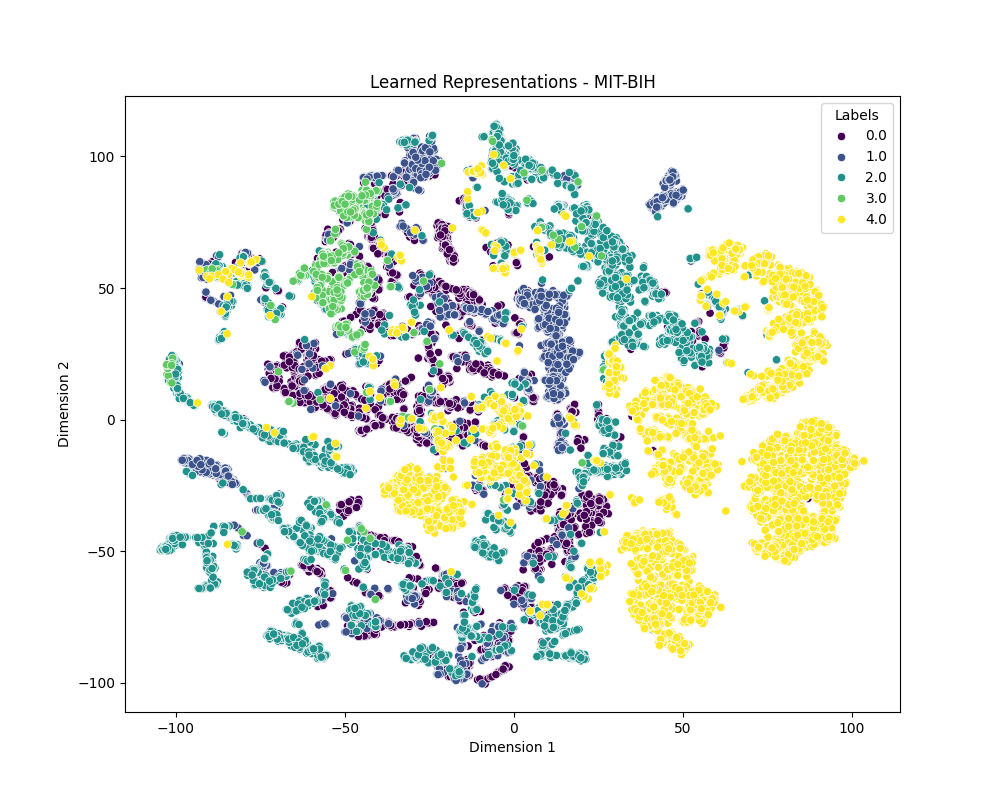
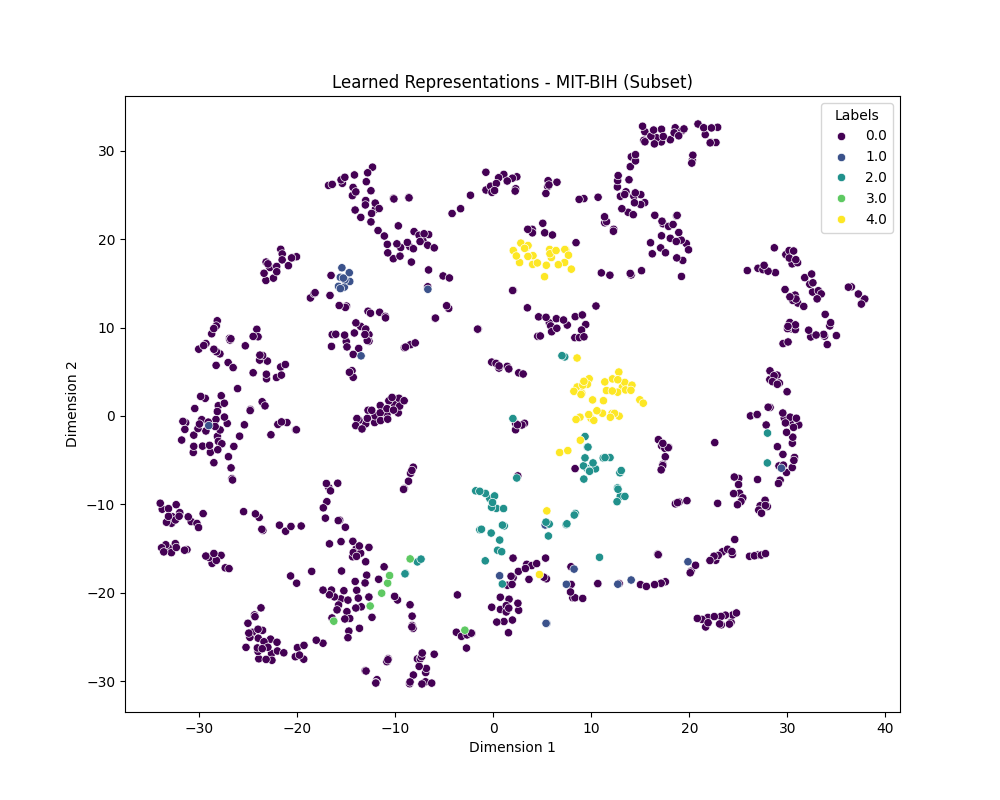
2.3

diff --git a/src/part2/remove_final_layers.py b/src/part2/remove_final_layers.py
@@ -1,0 +1,174 @@
+from pathlib import Path
+import numpy as np
+import pandas as pd
+from sklearn.decomposition import PCA
+from sklearn.manifold import TSNE
+import matplotlib.pyplot as plt
+import seaborn as sns
+from tensorflow.keras.layers import (Activation, Add, BatchNormalization,
+                                     Conv1D, Dense, Dropout, Flatten, Input,
+                                     MaxPooling1D)
+from tensorflow.keras.models import Model, Sequential
+from tensorflow.keras.regularizers import l2
+from tensorflow.keras.utils import to_categorical
+from tensorflow.keras.metrics import AUC, Precision, Recall
+from tensorflow.keras.optimizers import Adam
+from tqdm import tqdm
+
+def load_train_test(dpath="../../data/mitbih/"):
+    df_train = pd.read_csv(dpath / 'train.csv', header=None)
+    df_test = pd.read_csv(dpath / 'test.csv', header=None)
+
+    # Train split
+    X_train = df_train.iloc[:, :-1]
+    y_train = df_train.iloc[:, -1]
+
+    # Test split
+    X_test = df_test.iloc[:, :-1]
+    y_test = df_test.iloc[:, -1]
+
+    return X_train, y_train, X_test, y_test
+
+def reshape_data(X):
+    return X.values.reshape((X.shape[0], X.shape[1], 1))
+
+def residual_block(x, filters, kernel_size=3, stride=1,
+                   conv_shortcut=True, name=None):
+    # Shortcut
+    if conv_shortcut is True:
+        shortcut = Conv1D(filters, 1, strides=stride, name=name+'_0_conv')(x)
+        shortcut = BatchNormalization(name=name+'_0_bn')(shortcut)
+    else:
+        shortcut = x
+
+    # Residual
+    x = Conv1D(filters, kernel_size, padding='same', strides=stride,
+               kernel_regularizer=l2(0.001), name=name+'_1_conv')(x)
+    x = BatchNormalization(name=name+'_1_bn')(x)
+    x = Activation('relu', name=name+'_1_relu')(x)
+
+    x = Conv1D(filters, kernel_size, padding='same',
+               kernel_regularizer=l2(0.001), name=name+'_2_conv')(x)
+    x = BatchNormalization(name=name+'_2_bn')(x)
+
+    # Add shortcut
+    x = Add()([shortcut, x])
+    x = Activation('relu', name=name+'_out')(x)
+    return x
+
+def build_resnet_cnn(input_shape, filters=32, kernel_size=5, strides=2,
+                     loss='categorical_crossentropy', out_activation='softmax',
+                     num_classes=5):
+    inputs = Input(shape=input_shape)
+
+    # Initial conv block
+    x = Conv1D(filters, kernel_size, strides=strides,
+               padding='same', name='conv1')(inputs)
+    x = BatchNormalization(name='bn_conv1')(x)
+    x = Activation('relu')(x)
+
+    # Residual blocks
+    x = residual_block(x, filters, name='res_block1')
+    x = MaxPooling1D(3, strides=strides, padding='same')(x)
+
+    x = residual_block(x, 64, name='res_block2')
+    x = MaxPooling1D(3, strides=strides, padding='same')(x)
+
+    # Final layers
+    x = Flatten()(x)
+    x = Dense(64, activation='relu')(x)
+    x = Dropout(0.5)(x)
+    outputs = Dense(num_classes, activation=out_activation)(x)
+
+    model = Model(inputs, outputs)
+    model.compile(optimizer='adam',
+                  loss=loss,
+                  metrics=['accuracy', AUC(name='auc'), AUC(name='auprc', curve='PR'), Precision(name='precision'), Recall(name='recall')])
+    return model
+
+def fit_model(model, X_train, y_train, epochs=10, batch_size=64, val_split=0.1):
+    model.fit(X_train, y_train,
+              epochs=epochs, batch_size=batch_size,
+              validation_split=val_split)
+
+def extract_encoder(full_model, input_shape):
+    encoder = Model(inputs=full_model.input, outputs=full_model.get_layer('flatten').output)
+    return encoder
+
+def visualize_representations(encoder, dataset, labels, title, filename):
+    # Obtain representations
+    batch_size = 64
+    num_batches = int(np.ceil(len(dataset) / batch_size))
+    representations = []
+    subset_labels = []
+
+    for i in tqdm(range(num_batches), desc="Predicting"):
+        batch_data = dataset[i * batch_size:(i + 1) * batch_size]
+        batch_repr = encoder.predict(batch_data)
+        representations.append(batch_repr)
+        subset_labels.extend(labels[i * batch_size:(i + 1) * batch_size])
+
+    representations = np.vstack(representations)
+    subset_labels = np.array(subset_labels)
+
+    # Dimensionality Reduction
+    print("Performing PCA")
+    pca = PCA(n_components=50)
+    reduced_repr = pca.fit_transform(representations)
+
+    print("Performing t-SNE")
+    tsne = TSNE(n_components=2, random_state=42)
+    reduced_repr = tsne.fit_transform(reduced_repr)
+
+    # Plot
+    plt.figure(figsize=(10, 8))
+    sns.scatterplot(x=reduced_repr[:, 0], y=reduced_repr[:, 1], hue=subset_labels, palette='viridis', legend='full')
+    plt.title(title)
+    plt.xlabel('Dimension 1')
+    plt.ylabel('Dimension 2')
+    plt.legend(title='Labels', loc='upper right')
+    plt.savefig(filename)
+
+# Main
+if __name__ == "__main__":
+    ######## MITBIH #######################################
+    print("--- ResNet Encoder with Visualization ---")
+    # Load the data
+    mitbih_dpath = Path("../../data/mitbih/")
+    X_train_mitbih, y_train_mitbih, X_test_mitbih, y_test_mitbih = load_train_test(mitbih_dpath)
+
+    # Reshape the data for CNNs
+    X_train_mitbih_reshaped = reshape_data(X_train_mitbih)
+    X_test_mitbih_reshaped = reshape_data(X_test_mitbih)
+    input_shape = (X_train_mitbih.shape[1], 1)
+
+    # Select every 10th datapoint
+    X_train_mitbih_subset = reshape_data(X_train_mitbih.iloc[::10])
+    y_train_mitbih_subset = y_train_mitbih.iloc[::10]
+
+    # One-hot encode the target
+    n_classes = 5
+    y_train_mitbih_encoded = to_categorical(y_train_mitbih, num_classes=n_classes)
+    y_test_mitbih_encoded = to_categorical(y_test_mitbih, num_classes=n_classes)
+
+    ######## PTBDB #######################################
+    # Load the data
+    ptbdb_dpath = Path("../../data/ptbdb/")
+    X_train_ptbdb, y_train_ptbdb, X_test_ptbdb, y_test_ptbdb = load_train_test(ptbdb_dpath)
+
+    # Select every 10th datapoint
+    X_train_ptbdb_subset = reshape_data(X_train_ptbdb.iloc[::3])
+    y_train_ptbdb_subset = y_train_ptbdb.iloc[::3]
+
+    #######################################################
+
+    # Build and train the full ResNet model
+    resnet_model = build_resnet_cnn(input_shape, num_classes=n_classes)
+    fit_model(resnet_model, X_train_mitbih_reshaped, y_train_mitbih_encoded, epochs=1)
+
+    # Extract the encoder from the trained ResNet model
+    resnet_encoder = extract_encoder(resnet_model, input_shape)
+
+    # Visualize learned representations for the subset of the MIT-BIH dataset using the encoder
+    visualize_representations(resnet_encoder, X_train_mitbih_subset, y_train_mitbih_subset, 'Learned Representations - MIT-BIH (Subset)', "RESNET-MITBIH.png")
+    visualize_representations(resnet_encoder, X_train_ptbdb_subset, y_train_ptbdb_subset, 'Learned Representations - PTBDB (Subset)', "RESNET-PTBDB.png")

diff --git a/src/part2/representation_learning_model.py b/src/part2/representation_learning_model.py
@@ -71,35 +71,19 @@ def build_resnet_encoder(input_shape, filters=32, kernel_size=5, strides=2, out_
     x = Conv1D(filters, kernel_size, strides=strides, padding='same', name='conv1')(inputs)
     x = BatchNormalization(name='bn_conv1')(x)
     x = Activation('relu')(x)
-    print("ACTIVATION")
-    print(x.shape)
 
     x = residual_block(x, filters, name='res_block1')
     x = MaxPooling1D(3, strides=strides, padding='same')(x)
-    print("RES BLOCK")
-    print(x.shape)
 
     x = residual_block(x, 64, name='res_block2')
     x = MaxPooling1D(3, strides=strides, padding='same')(x)
-    print("RES BLOCK")
-    print(x.shape)
 
     x = Flatten()(x)
-    print("FLFATTEN")
-    print(x.shape)
-    
     x = Dense(64, activation='relu')(x)
-    print("DENSE")
-    print(x.shape)
     x = Dropout(0.5)(x)
-    print("DROPOUT")
-    print(x.shape)
+
     x = Dense(num_classes, activation=out_activation)(x)
-    print(x.shape)
-
     encoder = Model(inputs, x, name='encoder')
-
-
     return encoder
 
 # Define the decoder
@@ -108,18 +92,16 @@ def build_decoder_1(latent_dim, output_shape):
     x = Dense(64, activation='relu')(encoded_input)
     x = Dense(output_shape[0] * output_shape[1], activation='relu')(x)
     x = Reshape(output_shape)(x)
-    x = Conv1DTranspose(64, 3, activation='relu', padding='same')(x)
-    x = UpSampling1D(2)(x)
-    x = Conv1DTranspose(32, 3, activation='relu', padding='same')(x)
-    x = UpSampling1D(2)(x)
-    x = Conv1DTranspose(1, 3, activation='sigmoid', padding='same')(x)
+    #x = Conv1DTranspose(64, 3, activation='relu', padding='same')(x)
+    #x = UpSampling1D(2)(x)
+    #x = Conv1DTranspose(32, 3, activation='relu', padding='same')(x)
+    #x = UpSampling1D(2)(x)
+    #x = Conv1DTranspose(1, 3, activation='sigmoid', padding='same')(x)
 
     decoder = Model(encoded_input, x, name='decoder')
     return decoder
 
 
-
-# TODO: Add headers to the data
 def load_train_test(dpath="../../data/ptbdb/"):
     df_train = pd.read_csv(dpath / 'train.csv', header=None)
     df_test = pd.read_csv(dpath / 'test.csv', header=None)
@@ -186,7 +168,7 @@ def fit_evaluate(model, X_train, y_train, X_test, y_test,
 if __name__ == "__main__":
     print("--- Representation Learning Q2.2 ---")
     # Load the data
-    dpath = Path("./data/mitbih/")
+    dpath = Path("../../data/mitbih/")
     X_train, y_train, X_test, y_test = load_train_test(dpath)
 
     # Reshape the data for CNNs
@@ -210,7 +192,7 @@ if __name__ == "__main__":
     autoencoder.compile(optimizer='adam', loss='binary_crossentropy')
 
     autoencoder.fit(X_train_reshaped, X_train_reshaped,
-                    epochs=100,
+                    epochs=5,
                     batch_size=256,
                     shuffle=True)
 

diff --git a/src/part2/cgpt_viz.py b/src/part2/cgpt_viz.py
@@ -12,8 +12,8 @@ from sklearn.preprocessing import label_binarize
 from tensorflow.keras.layers import Activation, Add, BatchNormalization, Conv1D, Dense, Dropout, Flatten, Input, MaxPooling1D
 from tensorflow.keras.models import Model
 from tensorflow.keras.regularizers import l2
+from tensorflow.keras.callbacks import EarlyStopping
 from tqdm import tqdm
-
 
 def load_train_test(dpath="../../data/mitbih/"):
     df_train = pd.read_csv(dpath / 'train.csv', header=None)
@@ -31,18 +31,23 @@ def load_train_test(dpath="../../data/mitbih/"):
 
     return X_train, y_train, X_test, y_test
 
-
 def reshape_data(X):
     return X.values.reshape((X.shape[0], X.shape[1], 1))
-
 
 def fit_evaluate(model, X_train, y_train, X_test, y_test,
                  epochs=50, batch_size=64, val_split=0.1,
                  num_classes=1):
 
+    # Class weights to handle imbalance
+    class_weights = dict(enumerate(len(y_train) / (5 * np.bincount(y_train))))
+
+    early_stopping = EarlyStopping(monitor='val_loss', patience=5, restore_best_weights=True)
+
     _ = model.fit(X_train, y_train,
                   epochs=epochs, batch_size=batch_size,
-                  validation_split=val_split)
+                  validation_split=val_split,
+                  class_weight=class_weights,
+                  callbacks=[early_stopping])
 
     predictions = model.predict(X_test)
 
@@ -74,7 +79,10 @@ def fit_evaluate(model, X_train, y_train, X_test, y_test,
         average_auprc = np.mean(auprc_scores)
 
         print("Average AUPRC: {:.3f}".format(average_auprc))
-
+        
+        # Calculate ROC-AUC for multi-class
+        roc_score = roc_auc_score(y_test_binarized, predictions, multi_class='ovr')
+        print(f"Multi-class ROC-AUC: {roc_score:.3f}")
 
 def residual_block(x, filters, kernel_size=3, stride=1,
                    conv_shortcut=True, name=None):
@@ -169,6 +177,6 @@ if __name__ == "__main__":
     # Build ResNet encoder
     resnet_encoder = build_resnet_encoder(input_shape)
     resnet_encoder.summary()
-    fit_evaluate(resnet_encoder, X_train_reshaped, y_train, X_test_reshaped, y_test, epochs=10, num_classes=5)
+    fit_evaluate(resnet_encoder, X_train_reshaped, y_train, X_test_reshaped, y_test, epochs=1, num_classes=5)
     # Visualize learned representations for MIT-BIH dataset using the encoder
     visualize_representations(resnet_encoder, X_train_reshaped[:1000], y_train[:1000], 'Learned Representations - MIT-BIH')

diff --git a/src/part2/autoencoder.py b/src/part2/autoencoder.py
@@ -2,19 +2,10 @@ from pathlib import Path
 from secrets import randbelow
 
 from tensorflow.keras.utils import to_categorical
-
-# from src.part1.cnn import build_resnet_cnn
-# from src.utils.utils import fit_evaluate, load_train_test, reshape_data
-
-from tensorflow.keras.layers import (Activation, Add, BatchNormalization,
-                                     Conv1D, Dense, Dropout, Flatten, Input,
-                                     MaxPooling1D)
 from tensorflow.keras.metrics import AUC, Precision, Recall
 from tensorflow.keras.models import Model, Sequential
 from tensorflow.keras.regularizers import l2
-
-from tensorflow.keras.layers import Input, Conv1D, BatchNormalization, Activation, MaxPooling1D, Flatten, Dense, Dropout, UpSampling1D, Reshape
-from tensorflow.keras.models import Model
+from tensorflow.keras.layers import Input, Conv1D, BatchNormalization, Activation, MaxPooling1D, Flatten, Dense, Dropout, UpSampling1D, Reshape, Add
 from tensorflow.keras.optimizers import Adam
 
 import numpy as np
@@ -22,7 +13,6 @@ import pandas as pd
 from sklearn.metrics import auc, precision_recall_curve, roc_auc_score
 from sklearn.preprocessing import label_binarize
 import matplotlib.pyplot as plt
-
 
 
 def load_train_test(dpath="../../data/ptbdb/"):
@@ -39,7 +29,6 @@ def load_train_test(dpath="../../data/ptbdb/"):
 
     return X_train, y_train, X_test, y_test
     
-
 
 # Reshape the data for LSTM
 def reshape_data(X):
@@ -108,17 +97,10 @@ def residual_block(x, filters, kernel_size=3, strides=1, name='name'):
     return x
 
 
-
-
-
-
-
-
-
 if __name__ == "__main__":
     print("--- Representation Learning Q2.2 ---")
     # Load the data
-    dpath = Path("./data/mitbih/")
+    dpath = Path("../../data/mitbih/")
     X_train, y_train, X_test, y_test = load_train_test(dpath)
 
     # Reshape the data for CNNs
@@ -146,14 +128,4 @@ if __name__ == "__main__":
     # Summary of the model
     autoencoder.summary()
 
-    autoencoder.fit(X_train_reshaped, X_train_reshaped, epochs=50, batch_size=256, shuffle=True, validation_split=0.2)
-    
-    
-    
-
-   
-    
-
-
-    
-  
+    autoencoder.fit(X_train_reshaped, X_train_reshaped, epochs=5, batch_size=256, shuffle=True, validation_split=0.2)
